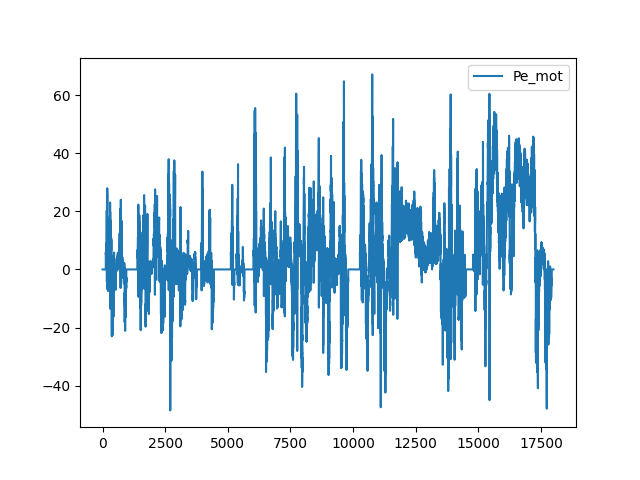
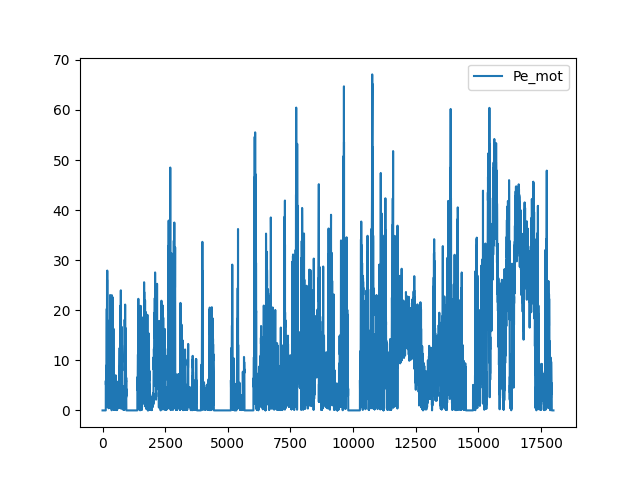
rendement : une seule valeur

diff --git a/src/calculs.py b/src/calculs.py
@@ -22,7 +22,7 @@ from data import (
     n_cyl,
     dict_pleine_charge,
 )
-from dataCycleDeRoulage import t, v_veh, pente, rapport, q_carb_mgcp, nbEtapes
+from dataCycleDeRoulage import t, v_veh, pente, rapport, q_carb_mgcp, nbEtapes, delta_t
 from fonctions import *
 
 
@@ -122,7 +122,9 @@ def calculCoupleEffectifMoteur():
         conversionTourParMinuteToRadParSeconde(valeursGlobales.N_mot[i])
         for i in range(nbEtapes)
     ]
-    valeursGlobales.Pe_mot = [Ce_mot[i] * omega_mot[i] / 1000 for i in range(nbEtapes)]
+    valeursGlobales.Pe_mot = [
+        abs(Ce_mot[i]) * omega_mot[i] / 1000 for i in range(nbEtapes)
+    ]
     plot(valeursGlobales.Pe_mot, "Pe_mot")
     valeursGlobales.P_traction = [
         F_traction[i] * conversionKmhToMs(v_veh[i]) / 1000 for i in range(nbEtapes)
@@ -143,21 +145,19 @@ def calculRendementEffectifConsoEtCO2():
     plot(q_carb, "q_carb")
     P_carb = [q_carb[i] * PCI / 1000 for i in range(nbEtapes)]
     plot(P_carb, "P_carb")
-    rend_e = [
-        valeursGlobales.Pe_mot[i] / P_carb[i] if P_carb[i] != 0 else 0
-        for i in range(nbEtapes)
-    ]
-    plot(rend_e, "rend_e")
+    dict_valeursGlobales["rend_e"] = sum(valeursGlobales.Pe_mot) / sum(P_carb)
     # masse_carburant_totale [kg] masse totale de carburant consommée sur tout le trajet
+    delta_t = 0.1
     masse_carburant_totale = (
-        sum(q_carb[i] * (t[i] - t[i - 1]) for i in range(1, nbEtapes)) / 1000000
+        sum(q_carb[i] * delta_t for i in range(nbEtapes)) / 1_000_000
     )
     # conso_carburant_totale [litres] conso totale
     conso_carburant_totale = conversionCarburantKgToLitres(masse_carburant_totale)
     # distance_totale [km] distance totale parcourue pendant le trajet
     valeursGlobales.distance_totale = sum(
-        conversionKmhToKms(v_veh[i]) * (t[i] - t[i - 1]) for i in range(1, nbEtapes)
+        conversionKmhToKms(v_veh[i]) * delta_t for i in range(nbEtapes)
     )
+    print(conso_carburant_totale)
     # On convertit en litres aux 100 km
     dict_valeursGlobales["C"] = (
         conso_carburant_totale * 100 / valeursGlobales.distance_totale
@@ -190,12 +190,10 @@ def evaluationPotentielDeceleration():
 
     # Energie de traction
     dict_valeursGlobales["E_traction_ap"] = sum(
-        P_traction_ap[i] * conversionSecondeToHeure(t[i] - t[i - 1])
-        for i in range(1, nbEtapes)
+        P_traction_ap[i] * conversionSecondeToHeure(delta_t) for i in range(nbEtapes)
     )
     dict_valeursGlobales["E_traction_an"] = sum(
-        P_traction_an[i] * conversionSecondeToHeure(t[i] - t[i - 1])
-        for i in range(1, nbEtapes)
+        P_traction_an[i] * conversionSecondeToHeure(delta_t) for i in range(nbEtapes)
     )
 
     # Energie disponible

diff --git a/src/dataCycleDeRoulage.py b/src/dataCycleDeRoulage.py
@@ -24,6 +24,10 @@ q_carb_mgcp = [cleanValue(cell.value) for cell in sheet["E"][1:]]
 # rapport [-] : rapport de boite engagé
 # q_carb [mg/cp] : débit de carburant (mg/cp : milligrammes par coup, masse de carburant injectée par cylindre pour 1 cycle thermodynamique)
 
+
+# delta_t [s] Ecart entre deux prises de mesures
+delta_t = t[1] - t[0]
+
 assert len(t) == len(v_veh) == len(pente) == len(rapport) == len(q_carb_mgcp)
 nbEtapes = len(t)
 print(f"Chargé {nbEtapes} lignes du fichier")

diff --git a/src/valeursGlobales.py b/src/valeursGlobales.py
@@ -9,6 +9,8 @@ dict_valeursGlobales = {
         5: 0,
         6: 0,
     },
+    # Rendement effectif du moteur
+    "rend_e": 0,
     # Consommation en carburant sur ce cycle C [L/100km]
     "C": 0,
     # Energie introduite sous forme de carburant E_carb [kW.h]
